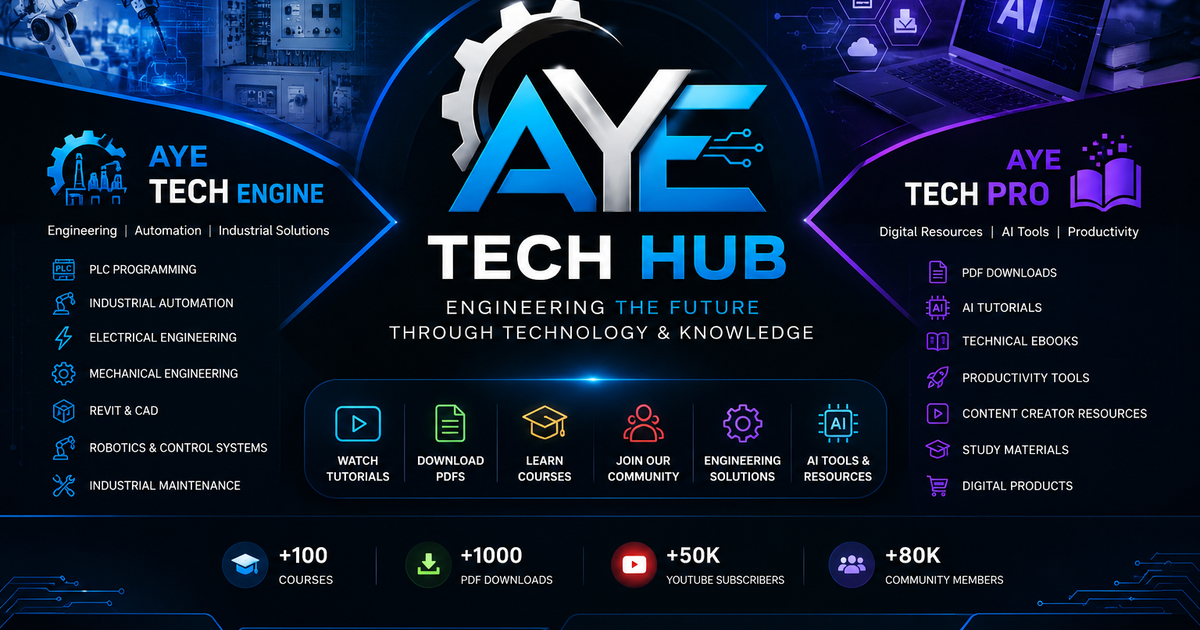
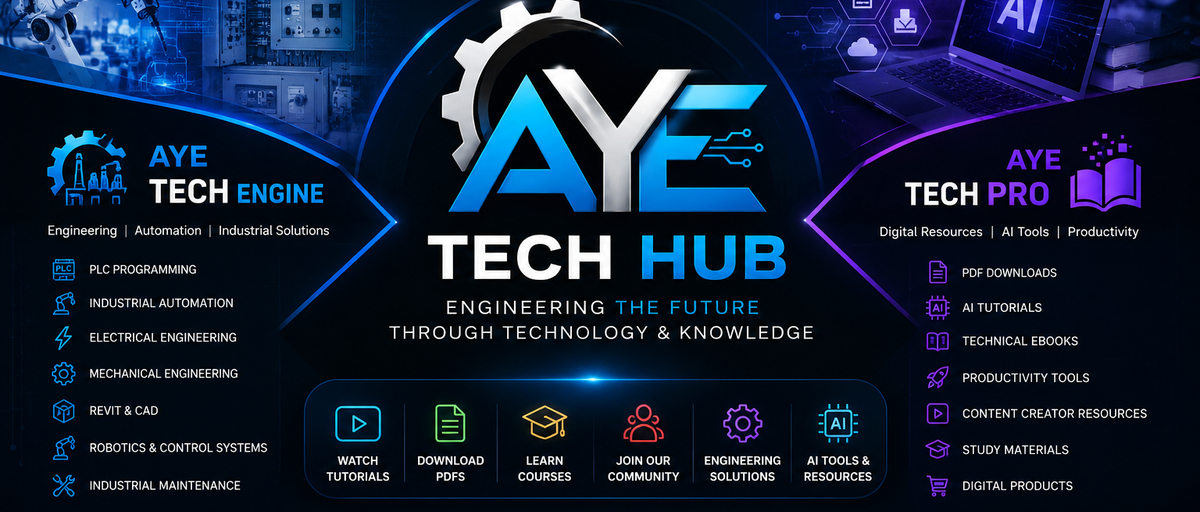
Remove fake stats from og-cover.png and fix about image sizing
- Crop og-cover.png from 1200x630 to 1200x512 — removes bottom stats
  strip (+100 Courses, +1000 PDFs, +50K subs, +80K community) which
  showed inflated numbers not reflecting actual platform size
- Remove fixed height:380px and flex centering from .about-img-box so
  the image renders at its natural aspect ratio with no cropping
- Change image from object-fit:cover to width:100%;height:auto so the
  full banner content is always visible

diff --git a/index.html b/index.html
@@ -437,9 +437,8 @@ section{padding:80px 0;position:relative;overflow:hidden}
 @media(min-width:1024px){.about-grid{grid-template-columns:1fr 1fr;gap:64px}}
 .about-visual{position:relative}
 .about-img-box{
-  border-radius:20px;height:380px;
+  border-radius:20px;
   background:linear-gradient(135deg,#0a1628,#1e3a8a);
-  display:flex;align-items:center;justify-content:center;
   position:relative;border:1px solid var(--border-strong);
   box-shadow:var(--shadow-glow);
 }
@@ -1597,7 +1596,7 @@ html[lang="am"] body{
     <div class="about-grid">
       <div class="about-visual reveal-l">
         <div class="about-img-box">
-          <img src="assets/images/og-cover.png" alt="AYE Tech Hub - Engineering the Future" style="width:100%;height:100%;object-fit:cover;border-radius:16px;display:block;" />
+          <img src="assets/images/og-cover.png" alt="AYE Tech Hub - Engineering the Future" style="width:100%;height:auto;display:block;border-radius:16px;" />
           <span class="corner-deco tl"></span>
           <span class="corner-deco tr"></span>
           <span class="corner-deco bl"></span>
